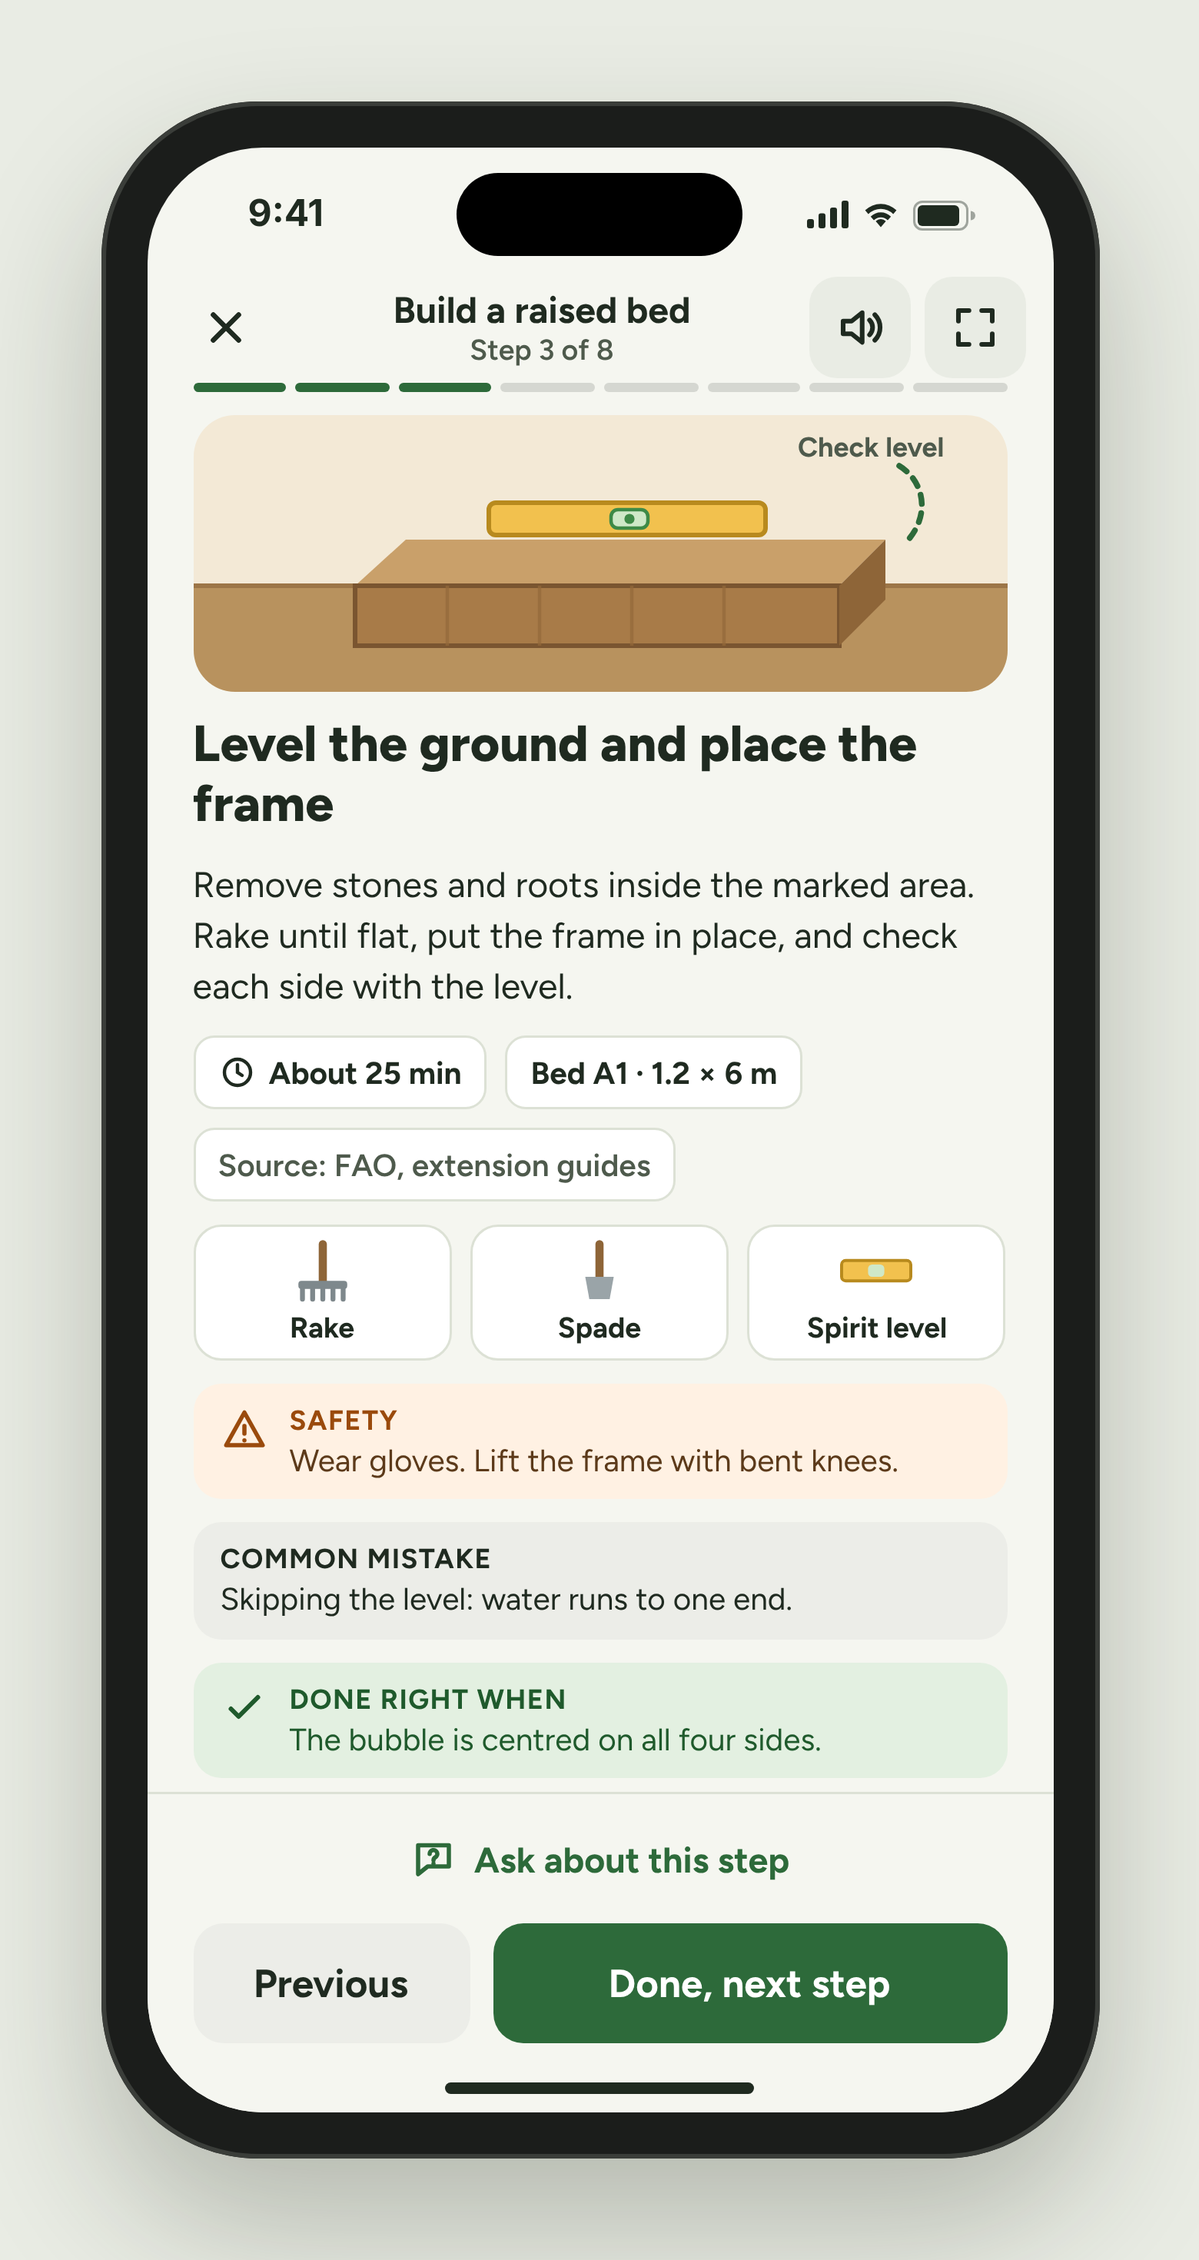
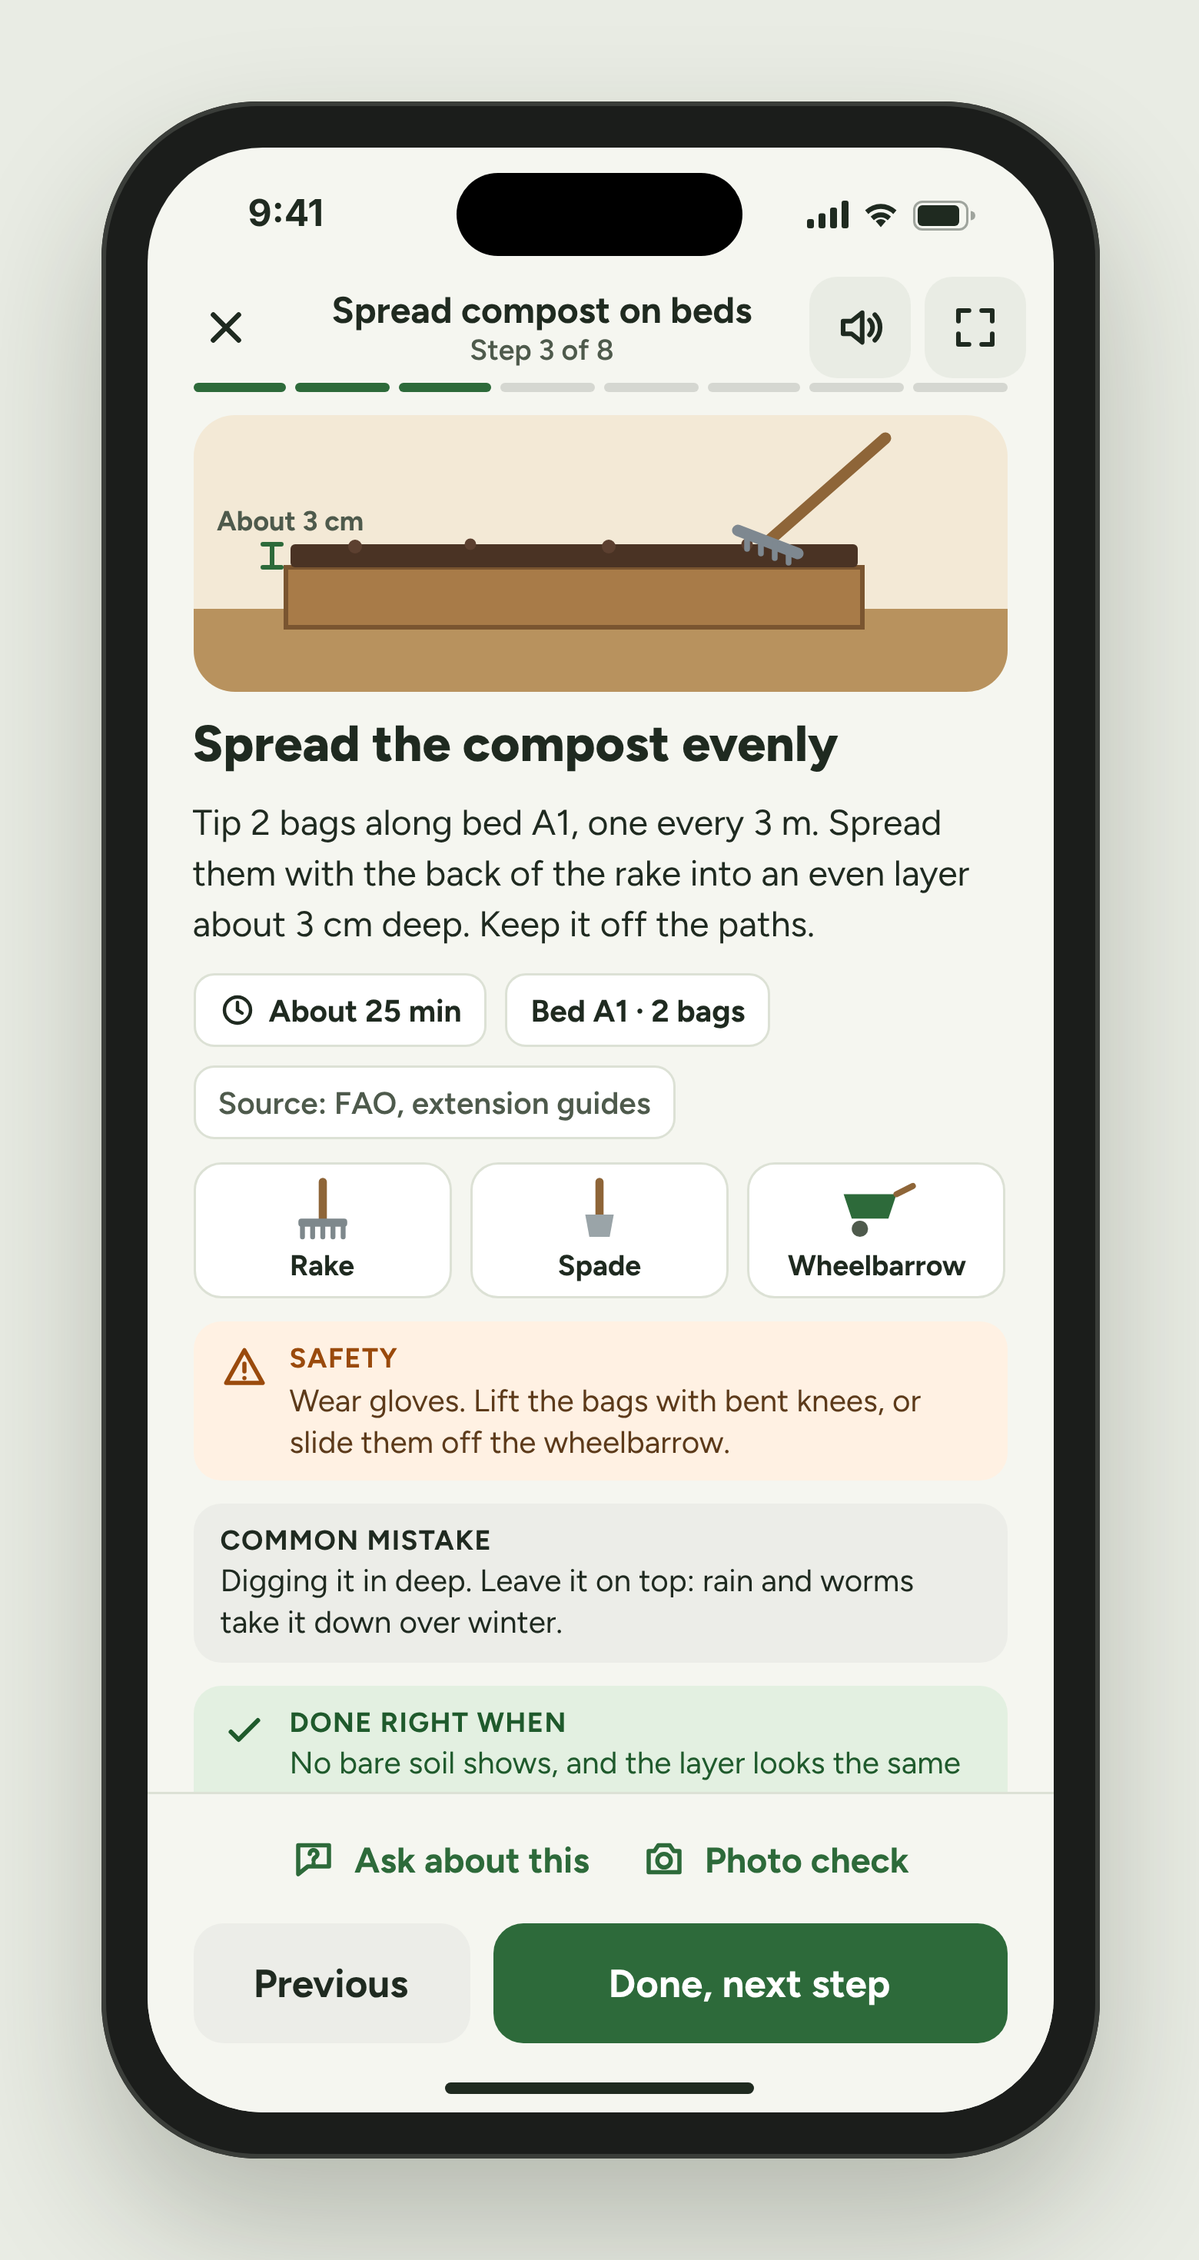
Design G3 guide doing mode: compost step for bed A1 (beds already built), photo check per step
Claude-Session: https://claude.ai/code/session_015NynAjU4naPZwzmeuGazot

Changed region(s): [[0.1538, 0.1857, 0.8615, 0.8357], [0.2769, 0.1238, 0.6154, 0.1548]]

diff --git a/design/source/G3-guide-full.html b/design/source/G3-guide-full.html
@@ -1,0 +1,108 @@
+<!doctype html>
+<html lang="en">
+<head>
+<meta charset="utf-8">
+<title>G3 Guide</title>
+<link href="https://fonts.googleapis.com/css2?family=Figtree:wght@400;500;600;700;800&display=swap" rel="stylesheet">
+<link rel="stylesheet" href="frame.css">
+<style>
+  .nav { height: 48px; padding: 0 12px; display: flex; align-items: center; gap: 6px; flex: none; }
+  .icon-btn { width: 44px; height: 44px; border-radius: 12px; display: flex; align-items: center; justify-content: center; }
+  .icon-btn.soft { background: #E9ECE4; }
+  .nav .title { flex: 1; display: flex; flex-direction: column; align-items: center; }
+  .nav .title b { font-size: 16px; }
+  .nav .title span { font-size: 12.5px; color: var(--muted); font-weight: 600; }
+  .prog { display: flex; gap: 4px; padding: 0 20px 10px; flex: none; }
+  .prog i { flex: 1; height: 4px; border-radius: 2px; background: rgba(31,42,32,.15); }
+  .prog i.on { background: var(--green); }
+  .body { flex: 1; overflow: hidden; padding: 0 20px; display: flex; flex-direction: column; gap: 10px; }
+  .body > * { flex: none; }
+  .art { height: 120px; border-radius: 18px; overflow: hidden; }
+  .eyebrow { font-size: 13px; font-weight: 800; color: var(--green); text-transform: uppercase; letter-spacing: .06em; }
+  h1 { margin: 0; font-size: 22px; font-weight: 800; line-height: 1.2; }
+  p.do { margin: 0; font-size: 15.5px; line-height: 1.42; }
+  .facts { display: flex; gap: 8px; flex-wrap: wrap; }
+  .fact { display: flex; align-items: center; gap: 6px; height: 32px; padding: 0 10px; border-radius: 9px; background: #fff; border: 1px solid var(--line); font-size: 13.5px; font-weight: 700; }
+  .tools { display: flex; gap: 8px; }
+  .tool { flex: 1; background: #fff; border: 1px solid var(--line); border-radius: 12px; padding: 4px 4px 6px; display: flex; flex-direction: column; align-items: center; gap: 2px; font-size: 12.5px; font-weight: 700; }
+  .note { border-radius: 12px; padding: 8px 12px; display: flex; gap: 10px; font-size: 13.5px; line-height: 1.35; }
+  .note b { display: block; font-size: 12px; text-transform: uppercase; letter-spacing: .04em; }
+  .warn { background: var(--orange-soft); color: #5C3A1A; }
+  .warn b { color: var(--orange); }
+  .mist { background: #ECEDE8; color: var(--text); }
+  .ok { background: var(--green-soft); color: var(--green-ink); }
+  .bar { flex: none; padding: 10px 20px 30px; background: var(--bg); border-top: 1px solid var(--line); display: flex; flex-direction: column; gap: 10px; }
+  .ask { white-space: nowrap; display: flex; align-items: center; justify-content: center; gap: 8px; color: var(--green); font-size: 15.5px; font-weight: 700; height: 36px; }
+</style>
+<style>.stage{height:1000px}.phone{height:940px}.screen{height:900px}</style>
+</head>
+<body>
+<div class="stage"><div class="phone"><div class="screen">
+  <div class="island"></div>
+  <div class="status">
+    <span>9:41</span>
+    <span class="icons">
+      <svg width="18" height="12" viewBox="0 0 18 12"><rect x="0" y="8" width="3" height="4" rx="1" fill="#1F2A20"/><rect x="5" y="5.5" width="3" height="6.5" rx="1" fill="#1F2A20"/><rect x="10" y="3" width="3" height="9" rx="1" fill="#1F2A20"/><rect x="15" y="0" width="3" height="12" rx="1" fill="#1F2A20"/></svg>
+      <svg width="16" height="12" viewBox="0 0 16 12"><path d="M8 11.5l2.2-2.6a3.2 3.2 0 0 0-4.4 0z" fill="#1F2A20"/><path d="M3.6 6.9a6.3 6.3 0 0 1 8.8 0l-1.4 1.6a4.2 4.2 0 0 0-6 0z" fill="#1F2A20"/><path d="M1.2 4.2a9.7 9.7 0 0 1 13.6 0l-1.4 1.6a7.6 7.6 0 0 0-10.8 0z" fill="#1F2A20"/></svg>
+      <svg width="27" height="13" viewBox="0 0 27 13"><rect x="0.5" y="0.5" width="23" height="12" rx="3.5" fill="none" stroke="#1F2A20" opacity=".4"/><rect x="2" y="2" width="18" height="9" rx="2" fill="#1F2A20"/><path d="M25 4.5v4a2 2 0 0 0 0-4z" fill="#1F2A20" opacity=".4"/></svg>
+    </span>
+  </div>
+  <div class="nav">
+    <div class="icon-btn" aria-label="Close"><svg width="22" height="22" viewBox="0 0 24 24" fill="none" stroke="#1F2A20" stroke-width="2.4" stroke-linecap="round"><path d="M6 6l12 12M18 6L6 18"/></svg></div>
+    <div class="title"><b>Spread compost on beds</b><span>Step 3 of 8</span></div>
+    <div class="icon-btn soft" aria-label="Read aloud"><svg width="22" height="22" viewBox="0 0 24 24" fill="none" stroke="#1F2A20" stroke-width="2.2" stroke-linecap="round" stroke-linejoin="round"><path d="M4 9v6h4l5 4V5L8 9z"/><path d="M16.5 8.5a5 5 0 0 1 0 7"/><path d="M19 6a8.5 8.5 0 0 1 0 12"/></svg></div>
+    <div class="icon-btn soft" aria-label="Doing mode"><svg width="22" height="22" viewBox="0 0 24 24" fill="none" stroke="#1F2A20" stroke-width="2.2" stroke-linecap="round" stroke-linejoin="round"><path d="M4 9V4h5M20 9V4h-5M4 15v5h5M20 15v5h-5"/></svg></div>
+  </div>
+  <div class="prog"><i class="on"></i><i class="on"></i><i class="on"></i><i></i><i></i><i></i><i></i><i></i></div>
+
+  <div class="body">
+    <div class="art">
+      <svg width="353" height="120" viewBox="0 38 353 120" role="img" aria-label="A raised bed seen from the side with an even layer of dark compost on top and a rake spreading it">
+        <rect width="353" height="158" fill="#F3E9D6"/>
+        <path d="M0 122 H353 V158 H0z" fill="#B8925E"/>
+        <rect x="40" y="104" width="250" height="26" fill="#A87B48" stroke="#7A5530" stroke-width="2"/>
+        <rect x="42" y="94" width="246" height="10" rx="2" fill="#4A3324"/>
+        <g fill="#5C4030"><circle cx="70" cy="95" r="3"/><circle cx="120" cy="94" r="2.5"/><circle cx="180" cy="95" r="3"/><circle cx="240" cy="94" r="2.5"/></g>
+        <path d="M300 48 L250 92" stroke="#8E6538" stroke-width="5" stroke-linecap="round"/>
+        <path d="M236 88 L262 98" stroke="#7E8890" stroke-width="5" stroke-linecap="round"/>
+        <path d="M240 90 v6 M246 92 v6 M252 94 v6 M258 96 v6" stroke="#7E8890" stroke-width="2.5" stroke-linecap="round"/>
+        <path d="M34 94 v10 M30 94 h8 M30 104 h8" stroke="#2D6A3A" stroke-width="2" stroke-linecap="round"/>
+        <text x="10" y="88" font-family="Figtree, sans-serif" font-size="12" font-weight="700" fill="#4E5A4C">About 3 cm</text>
+      </svg>
+    </div>
+    <h1>Spread the compost evenly</h1>
+    <p class="do">Tip 2 bags along bed A1, one every 3 m. Spread them with the back of the rake into an even layer about 3 cm deep. Keep it off the paths.</p>
+    <div class="facts">
+      <span class="fact"><svg width="16" height="16" viewBox="0 0 24 24" fill="none" stroke="#1F2A20" stroke-width="2.2" stroke-linecap="round"><circle cx="12" cy="12" r="8.5"/><path d="M12 7v5l3 2"/></svg>About 25 min</span>
+      <span class="fact">Bed A1 · 2 bags</span>
+      <span class="fact" style="color: var(--muted); font-weight: 600">Source: FAO, extension guides</span>
+    </div>
+    <div class="tools">
+      <div class="tool"><svg width="40" height="30" viewBox="0 0 40 34"><rect x="18" y="2" width="4" height="22" rx="2" fill="#8E6538"/><rect x="8" y="22" width="24" height="4" rx="1.5" fill="#7E888C"/><g stroke="#7E888C" stroke-width="2.4" stroke-linecap="round"><path d="M10 26v5M15 26v5M20 26v5M25 26v5M30 26v5"/></g></svg>Rake</div>
+      <div class="tool"><svg width="40" height="30" viewBox="0 0 40 34"><rect x="18" y="2" width="4" height="20" rx="2" fill="#8E6538"/><path d="M13 20 h14 l-2 11 h-10z" fill="#9AA4A8"/></svg>Spade</div>
+      <div class="tool"><svg width="40" height="30" viewBox="0 0 40 34"><path d="M4 10 h26 l-4 12 h-18z" fill="#2D6A3A"/><circle cx="12" cy="27" r="4" fill="#4E5A4C"/><path d="M30 10 l8 -4" stroke="#8E6538" stroke-width="3" stroke-linecap="round"/></svg>Wheelbarrow</div>
+    </div>
+    <div class="note warn">
+      <svg width="20" height="20" viewBox="0 0 24 24" fill="none" stroke="#9A4A0C" stroke-width="2.2" stroke-linecap="round" stroke-linejoin="round" style="flex: none; margin-top: 2px"><path d="M12 3l9.5 17h-19z"/><path d="M12 10v4M12 17.5v.01"/></svg>
+      <div><b>Safety</b>Wear gloves. Lift the bags with bent knees, or slide them off the wheelbarrow.</div>
+    </div>
+    <div class="note mist">
+      <div><b>Common mistake</b>Digging it in deep. Leave it on top: rain and worms take it down over winter.</div>
+    </div>
+    <div class="note ok">
+      <svg width="20" height="20" viewBox="0 0 24 24" fill="none" stroke="#1F5A2C" stroke-width="2.4" stroke-linecap="round" stroke-linejoin="round" style="flex: none; margin-top: 2px"><path d="M5 12l4 4 10-10"/></svg>
+      <div><b>Done right when</b>No bare soil shows, and the layer looks the same at both ends.</div>
+    </div>
+  </div>
+
+  <div class="bar">
+    <div style="display: flex; justify-content: center; gap: 22px"><div class="ask"><svg width="20" height="20" viewBox="0 0 24 24" fill="none" stroke="#2D6A3A" stroke-width="2.2" stroke-linecap="round" stroke-linejoin="round"><path d="M4 5h16v11H9l-5 4z"/><path d="M10 9.5a2 2 0 1 1 3 1.7c-.7.4-1 .8-1 1.6M12 14.5v.01"/></svg>Ask about this</div><div class="ask"><svg width="20" height="20" viewBox="0 0 24 24" fill="none" stroke="#2D6A3A" stroke-width="2.2" stroke-linecap="round" stroke-linejoin="round"><path d="M4 8h3l2-3h6l2 3h3v11H4z"/><circle cx="12" cy="13" r="3.5"/></svg>Photo check</div></div>
+    <div style="display: flex; gap: 10px">
+      <div class="btn secondary" style="width: 120px">Previous</div>
+      <div class="btn primary" style="flex: 1">Done, next step</div>
+    </div>
+  </div>
+  <div class="home"></div>
+</div></div></div>
+</body>
+</html>

diff --git a/design/source/G3-guide.html b/design/source/G3-guide.html
@@ -32,7 +32,7 @@
   .mist { background: #ECEDE8; color: var(--text); }
   .ok { background: var(--green-soft); color: var(--green-ink); }
   .bar { flex: none; padding: 10px 20px 30px; background: var(--bg); border-top: 1px solid var(--line); display: flex; flex-direction: column; gap: 10px; }
-  .ask { display: flex; align-items: center; justify-content: center; gap: 8px; color: var(--green); font-size: 15.5px; font-weight: 700; height: 36px; }
+  .ask { white-space: nowrap; display: flex; align-items: center; justify-content: center; gap: 8px; color: var(--green); font-size: 15.5px; font-weight: 700; height: 36px; }
 </style>
 </head>
 <body>
@@ -48,7 +48,7 @@
   </div>
   <div class="nav">
     <div class="icon-btn" aria-label="Close"><svg width="22" height="22" viewBox="0 0 24 24" fill="none" stroke="#1F2A20" stroke-width="2.4" stroke-linecap="round"><path d="M6 6l12 12M18 6L6 18"/></svg></div>
-    <div class="title"><b>Build a raised bed</b><span>Step 3 of 8</span></div>
+    <div class="title"><b>Spread compost on beds</b><span>Step 3 of 8</span></div>
     <div class="icon-btn soft" aria-label="Read aloud"><svg width="22" height="22" viewBox="0 0 24 24" fill="none" stroke="#1F2A20" stroke-width="2.2" stroke-linecap="round" stroke-linejoin="round"><path d="M4 9v6h4l5 4V5L8 9z"/><path d="M16.5 8.5a5 5 0 0 1 0 7"/><path d="M19 6a8.5 8.5 0 0 1 0 12"/></svg></div>
     <div class="icon-btn soft" aria-label="Doing mode"><svg width="22" height="22" viewBox="0 0 24 24" fill="none" stroke="#1F2A20" stroke-width="2.2" stroke-linecap="round" stroke-linejoin="round"><path d="M4 9V4h5M20 9V4h-5M4 15v5h5M20 15v5h-5"/></svg></div>
   </div>
@@ -56,51 +56,46 @@
 
   <div class="body">
     <div class="art">
-      <svg width="353" height="120" viewBox="0 38 353 120" role="img" aria-label="A wooden frame placed on levelled ground with a spirit level on top">
+      <svg width="353" height="120" viewBox="0 38 353 120" role="img" aria-label="A raised bed seen from the side with an even layer of dark compost on top and a rake spreading it">
         <rect width="353" height="158" fill="#F3E9D6"/>
-        <path d="M0 112 H353 V158 H0z" fill="#B8925E"/>
-        <path d="M0 112 H353" stroke="#9C7547" stroke-width="2"/>
-        <polygon points="70,112 280,112 300,92 92,92" fill="#C9A06A"/>
-        <rect x="70" y="112" width="210" height="26" fill="#A87B48"/>
-        <rect x="70" y="112" width="210" height="26" fill="none" stroke="#7A5530" stroke-width="2"/>
-        <polygon points="280,112 300,92 300,118 280,138" fill="#8E6538"/>
-        <path d="M110 112 V138 M150 112 V138 M190 112 V138 M230 112 V138" stroke="#94693B" stroke-width="1.5" opacity=".7"/>
-        <rect x="128" y="76" width="120" height="14" rx="3" fill="#F2C14E" stroke="#B88A1E" stroke-width="2"/>
-        <rect x="181" y="79" width="16" height="8" rx="3" fill="#CFE8C8" stroke="#3E8A47" stroke-width="1.5"/>
-        <circle cx="189" cy="83" r="2.2" fill="#3E8A47"/>
-        
-        
-        <path d="M306 60 c10 6 14 20 4 32" stroke="#2D6A3A" stroke-width="2.5" fill="none" stroke-linecap="round" stroke-dasharray="4 4"/>
-        <text x="262" y="56" font-family="Figtree, sans-serif" font-size="12" font-weight="700" fill="#4E5A4C">Check level</text>
+        <path d="M0 122 H353 V158 H0z" fill="#B8925E"/>
+        <rect x="40" y="104" width="250" height="26" fill="#A87B48" stroke="#7A5530" stroke-width="2"/>
+        <rect x="42" y="94" width="246" height="10" rx="2" fill="#4A3324"/>
+        <g fill="#5C4030"><circle cx="70" cy="95" r="3"/><circle cx="120" cy="94" r="2.5"/><circle cx="180" cy="95" r="3"/><circle cx="240" cy="94" r="2.5"/></g>
+        <path d="M300 48 L250 92" stroke="#8E6538" stroke-width="5" stroke-linecap="round"/>
+        <path d="M236 88 L262 98" stroke="#7E8890" stroke-width="5" stroke-linecap="round"/>
+        <path d="M240 90 v6 M246 92 v6 M252 94 v6 M258 96 v6" stroke="#7E8890" stroke-width="2.5" stroke-linecap="round"/>
+        <path d="M34 94 v10 M30 94 h8 M30 104 h8" stroke="#2D6A3A" stroke-width="2" stroke-linecap="round"/>
+        <text x="10" y="88" font-family="Figtree, sans-serif" font-size="12" font-weight="700" fill="#4E5A4C">About 3 cm</text>
       </svg>
     </div>
-    <h1>Level the ground and place the frame</h1>
-    <p class="do">Remove stones and roots inside the marked area. Rake until flat, put the frame in place, and check each side with the level.</p>
+    <h1>Spread the compost evenly</h1>
+    <p class="do">Tip 2 bags along bed A1, one every 3 m. Spread them with the back of the rake into an even layer about 3 cm deep. Keep it off the paths.</p>
     <div class="facts">
       <span class="fact"><svg width="16" height="16" viewBox="0 0 24 24" fill="none" stroke="#1F2A20" stroke-width="2.2" stroke-linecap="round"><circle cx="12" cy="12" r="8.5"/><path d="M12 7v5l3 2"/></svg>About 25 min</span>
-      <span class="fact">Bed A1 · 1.2 × 6 m</span>
+      <span class="fact">Bed A1 · 2 bags</span>
       <span class="fact" style="color: var(--muted); font-weight: 600">Source: FAO, extension guides</span>
     </div>
     <div class="tools">
       <div class="tool"><svg width="40" height="30" viewBox="0 0 40 34"><rect x="18" y="2" width="4" height="22" rx="2" fill="#8E6538"/><rect x="8" y="22" width="24" height="4" rx="1.5" fill="#7E888C"/><g stroke="#7E888C" stroke-width="2.4" stroke-linecap="round"><path d="M10 26v5M15 26v5M20 26v5M25 26v5M30 26v5"/></g></svg>Rake</div>
       <div class="tool"><svg width="40" height="30" viewBox="0 0 40 34"><rect x="18" y="2" width="4" height="20" rx="2" fill="#8E6538"/><path d="M13 20 h14 l-2 11 h-10z" fill="#9AA4A8"/></svg>Spade</div>
-      <div class="tool"><svg width="40" height="30" viewBox="0 0 40 34"><rect x="3" y="12" width="34" height="10" rx="2" fill="#F2C14E" stroke="#B88A1E" stroke-width="1.5"/><rect x="16" y="14" width="8" height="6" rx="2" fill="#CFE8C8"/></svg>Spirit level</div>
+      <div class="tool"><svg width="40" height="30" viewBox="0 0 40 34"><path d="M4 10 h26 l-4 12 h-18z" fill="#2D6A3A"/><circle cx="12" cy="27" r="4" fill="#4E5A4C"/><path d="M30 10 l8 -4" stroke="#8E6538" stroke-width="3" stroke-linecap="round"/></svg>Wheelbarrow</div>
     </div>
     <div class="note warn">
       <svg width="20" height="20" viewBox="0 0 24 24" fill="none" stroke="#9A4A0C" stroke-width="2.2" stroke-linecap="round" stroke-linejoin="round" style="flex: none; margin-top: 2px"><path d="M12 3l9.5 17h-19z"/><path d="M12 10v4M12 17.5v.01"/></svg>
-      <div><b>Safety</b>Wear gloves. Lift the frame with bent knees.</div>
+      <div><b>Safety</b>Wear gloves. Lift the bags with bent knees, or slide them off the wheelbarrow.</div>
     </div>
     <div class="note mist">
-      <div><b>Common mistake</b>Skipping the level: water runs to one end.</div>
+      <div><b>Common mistake</b>Digging it in deep. Leave it on top: rain and worms take it down over winter.</div>
     </div>
     <div class="note ok">
       <svg width="20" height="20" viewBox="0 0 24 24" fill="none" stroke="#1F5A2C" stroke-width="2.4" stroke-linecap="round" stroke-linejoin="round" style="flex: none; margin-top: 2px"><path d="M5 12l4 4 10-10"/></svg>
-      <div><b>Done right when</b>The bubble is centred on all four sides.</div>
+      <div><b>Done right when</b>No bare soil shows, and the layer looks the same at both ends.</div>
     </div>
   </div>
 
   <div class="bar">
-    <div class="ask"><svg width="20" height="20" viewBox="0 0 24 24" fill="none" stroke="#2D6A3A" stroke-width="2.2" stroke-linecap="round" stroke-linejoin="round"><path d="M4 5h16v11H9l-5 4z"/><path d="M10 9.5a2 2 0 1 1 3 1.7c-.7.4-1 .8-1 1.6M12 14.5v.01"/></svg>Ask about this step</div>
+    <div style="display: flex; justify-content: center; gap: 22px"><div class="ask"><svg width="20" height="20" viewBox="0 0 24 24" fill="none" stroke="#2D6A3A" stroke-width="2.2" stroke-linecap="round" stroke-linejoin="round"><path d="M4 5h16v11H9l-5 4z"/><path d="M10 9.5a2 2 0 1 1 3 1.7c-.7.4-1 .8-1 1.6M12 14.5v.01"/></svg>Ask about this</div><div class="ask"><svg width="20" height="20" viewBox="0 0 24 24" fill="none" stroke="#2D6A3A" stroke-width="2.2" stroke-linecap="round" stroke-linejoin="round"><path d="M4 8h3l2-3h6l2 3h3v11H4z"/><circle cx="12" cy="13" r="3.5"/></svg>Photo check</div></div>
     <div style="display: flex; gap: 10px">
       <div class="btn secondary" style="width: 120px">Previous</div>
       <div class="btn primary" style="flex: 1">Done, next step</div>
